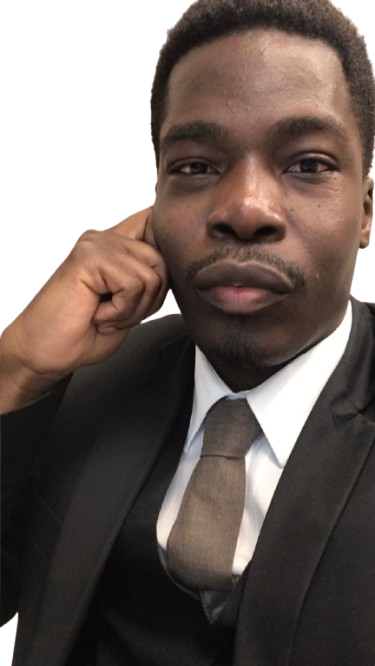
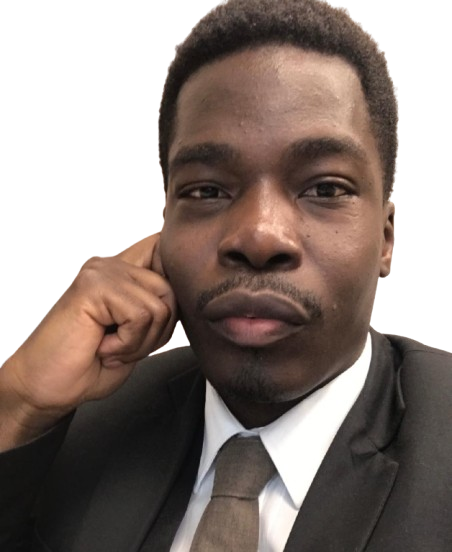
fix: finaly touch

diff --git a/src/component/about/Profile3D.jsx b/src/component/about/Profile3D.jsx
@@ -33,7 +33,7 @@ export default function Profile3D() {
                     sx={{
                         width: "100%",
                         height: "100%",
-                        objectFit: "contain",
+                        objectFit: "cover",
                         transform: "translateZ(30px)",
                     }}
                 />
